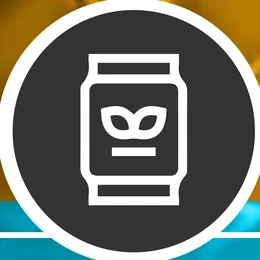
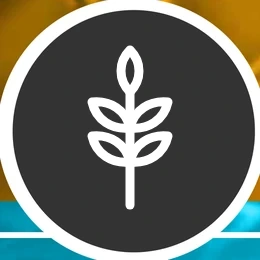
feat(catalogo): buscador por palabra, fotos con su propio nombre, sin nombres cortados (SEM-400)
- Buscador: palabra por palabra, ignora «alimento/comida/para», sinónimos
  (gallina→ponedora, rata→raticida, balanceado→rubros) y abreviaturas de la
  planilla; el rubro nombrado sale primero; con 0 resultados ofrece el rubro y
  preguntar por WhatsApp. «alimento gato» pasa de 0 a 128.
- Búsqueda y rubro en la URL (?q=…&sec=…) para mandar links ya filtrados.
- Accesorios y Venenos: cada foto con el nombre de su producto (antes la caja
  de Glacoxan decía «Bandeja sanitaria»); grupos alternados; productos con la
  misma foto en una sola tarjeta; cada foto prestada una sola vez.
- Nombres de la tabla medidos con el ancho real de la letra: 0 cortados a
  1080/390/360 px (antes 10/19).
- Íconos nuevos de Forrajes (espiga) y Snacks (maní): repetían Cereales y Venenos.
- content-visibility en las hojas: TBT 436→109 ms (local, mediana de 3).
- «de de engorde» en la descripción de Cerdo.

Changed region(s): [[0.3077, 0.1538, 0.7385, 0.8308]]

diff --git a/build.py b/build.py
@@ -11,7 +11,7 @@ consume la app precios.semilleroelmanantial.com.ar).
     python build.py            # baja el sheet y genera index.html
     python build.py --cache    # usa mayorista.csv local (sin red)
 """
-import csv, io, json, os, re, sys, unicodedata, urllib.parse, urllib.request
+import csv, hashlib, io, json, os, re, sys, unicodedata, urllib.parse, urllib.request
 from datetime import date
 
 BASE = os.path.dirname(os.path.abspath(__file__))
@@ -362,6 +362,35 @@ def encoger(texto, ancho, size, em, minimo):
     return round(max(minimo, min(size, necesario)), 1)
 
 
+# Ancho real de cada letra de Roboto Condensed 400, en em (medido con canvas sobre
+# la fuente que se sirve, assets/fonts). El promedio EM_ROBOTO se queda corto en
+# nombres largos: "Balanced cachorro raza med x 20 kg" se cortaba con "…" justo en
+# el peso (SEM-400). Con la tabla se detecta el corte y se achica o abrevia más.
+ANCHOS_ROBOTO = json.load(open(os.path.join(BASE, "assets", "fonts",
+                                            "anchos_roboto_condensed.json"), encoding="utf-8"))
+ANCHO_FILA = 418        # ancho útil (451 medido) menos 7 %: a 360-390 px el texto se
+                        # ensancha hasta 5,5 % por el redondeo de la letra chica
+FS_FILA_MIN = 16        # por debajo de esto se abrevia en vez de achicar
+
+
+def ancho_em(texto):
+    return sum(ANCHOS_ROBOTO.get(ch, 0.5) for ch in texto)
+
+
+def nombre_fila(desc):
+    """Nombre y tamaño de una fila de la tabla, sin que el texto se corte."""
+    nom = abreviar_prod(linda(desc))
+    fs = encoger(nom, 448, 32, EM_ROBOTO, 19)
+    if ancho_em(nom) * fs <= ANCHO_FILA:
+        return nom, fs            # entra: igual que siempre
+    corto = abreviar_prod(nom, limite=0)
+    for n in (nom, corto):
+        fs = min(32, ANCHO_FILA / ancho_em(n))
+        if fs >= FS_FILA_MIN:
+            return n, round(fs, 1)
+    return corto, FS_FILA_MIN
+
+
 # Abreviaturas que el catálogo original ya usaba, para que el texto entre.
 ABREVIA = [
     ("PRODUCCION PROPIA SEMILLERO", "PROD. PROPIA SEMILLERO"),
@@ -425,7 +454,10 @@ TOPE_TARJETAS = 5
 MAX_PILDORAS = 4      # el original nunca lista más de 4 variedades por foto
 # Secciones donde cada producto se muestra con SU foto en vez de agrupar la familia:
 # son surtidos donde la gracia es justamente ver cada variedad (Mati, 12/08).
-POR_PRODUCTO = {"CEREALES PARA DESAYUNO"}
+# Accesorios y Venenos también: ahí el grupo es una categoría ("PERROS Y GATOS",
+# "RATAS"), no una marca, y agrupar pegaba a la caja de Glacoxan los rótulos
+# "Bandeja sanitaria" y "Blister fino p/ gato" (SEM-400).
+POR_PRODUCTO = {"CEREALES PARA DESAYUNO", "ACCESORIOS", "VENENOS"}
 TOPE_ABSOLUTO = 9     # el máximo que llegó a poner la diseñadora en una página
 DIAM_CIRCULO = 0.86   # diámetro del círculo, en fracción del ancho de la columna
 # Secciones a granel: el original muestra el producto en círculo con aro de color
@@ -746,8 +778,7 @@ def pag_contenido(slug, color, pill, bloques, fotos, nro, ban_ext):
         y += H_GRUPO
         for k, it in enumerate(b["items"]):
             bg = FILA_A if k % 2 else FILA_B
-            nom = abreviar_prod(linda(it["desc"]))
-            fs = encoger(nom, 448, 32, EM_ROBOTO, 19)
+            nom, fs = nombre_fila(it["desc"])
             filas_html.append(
                 f'<div class="fila" style="top:{q(y)};background:{bg};'
                 f'font-size:{q(fs)}"><span>{esc(nom)}</span></div>')
@@ -1096,6 +1127,20 @@ SIN_DESTACAR = ("KEN-L RATION",)
 YA_RELLENO = {}
 
 
+_HUELLAS = {}
+
+
+def huella(local):
+    """md5 del archivo de la foto: detecta productos distintos con la misma imagen."""
+    if local not in _HUELLAS:
+        try:
+            with open(os.path.join(BASE, "assets", local), "rb") as fh:
+                _HUELLAS[local] = hashlib.md5(fh.read()).hexdigest()
+        except OSError:
+            _HUELLAS[local] = local
+    return _HUELLAS[local]
+
+
 def fotos_de(bloques, sec, mapa, prot, reserva=None):
     """Arma la columna de fotos: UNA por familia, con sus variedades al lado.
 
@@ -1161,21 +1206,34 @@ def fotos_de(bloques, sec, mapa, prot, reserva=None):
     # con que una sola familia tuviera fotos y Rosco se desarmaba en 5 fotos sueltas.
     if porgrupo and (sec in POR_PRODUCTO or (len(porgrupo) == 1 and len(bloques) == 1)):
         marca = porgrupo[0][0]
-        todos, vistos = [], set()
+        todos, vistos = [], {}
         for b in bloques:
-            for it in b["items"]:
+            for k_it, it in enumerate(b["items"]):
                 hit = mapa.get(f"{sec}|{it['cod']}|{it['desc']}")
-                if hit and hit["local"] not in vistos:
-                    vistos.add(hit["local"])
-                    todos.append({"img": hit["local"],
-                                  "nom": abreviar_prod(sin_marca(it["desc"], marca), 26),
-                                  "variantes": [abreviar_prod(sin_marca(it["desc"], marca), 26)],
-                                  "prot": proteina_de(sec, marca, it["desc"], prot),
-                                  "desc": it["desc"].upper(),
-                                  "propia": hit.get("slug", "") in MARCA_SLUG.get(marca, "")})
+                if not hit:
+                    continue
+                nom = abreviar_prod(sin_marca(it["desc"], marca), 26)
+                # Dos productos con la MISMA foto (Formix 100 g y 500 g son el mismo
+                # archivo): una sola tarjeta con los dos nombres, no la foto dos veces.
+                clave = huella(hit["local"])
+                if clave in vistos:
+                    previa = vistos[clave]
+                    if len(previa["variantes"]) < MAX_PILDORAS and nom not in previa["variantes"]:
+                        previa["variantes"].append(nom)
+                    continue
+                c = {"img": hit["local"], "nom": nom, "variantes": [nom],
+                     "prot": proteina_de(sec, marca, it["desc"], prot),
+                     "desc": it["desc"].upper(), "orden": k_it,
+                     "propia": hit.get("slug", "") in MARCA_SLUG.get(marca, "")}
+                vistos[clave] = c
+                todos.append(c)
         # las mezclas van primero: son producción nuestra y es lo que queremos mostrar
         destacar = DESTACADOS.get(sec, ())
+        # En las secciones por categoría se alternan los grupos (1ª foto de cada grupo,
+        # después la 2ª…): si no, Hormigas llenaba la columna y Ratas no tenía ninguna.
+        alterna = sec in ("ACCESORIOS", "VENENOS")
         todos.sort(key=lambda c: (0 if any(d in c["desc"] for d in destacar) else 1,
+                                  c["orden"] if alterna else 0,
                                   0 if c.get("propia") else 1))
         elegidas = todos
 
@@ -1198,6 +1256,10 @@ def fotos_de(bloques, sec, mapa, prot, reserva=None):
             if len(elegidas) >= tope_relleno:
                 break
             if c["img"] in usadas or (c.get("claves") or {c.get("clave")}) & ya_nombrados:
+                continue
+            # Cada foto prestada, una sola vez en todo el catálogo: en Accesorios las
+            # mismas 5 fotos llegaron a aparecer en 7 hojas (SEM-400).
+            if YA_RELLENO.get(c["img"], 0) >= 1:
                 continue
             elegidas.append(dict(c, prestada=True))
             usadas.add(c["img"])
@@ -1335,7 +1397,8 @@ def vista_buscar():
   <div class="grilla" id="res"></div>
   <div class="mas" id="mas" hidden><button id="btn-mas" type="button"></button></div>
   <div class="vacio" id="vacio" hidden>
-    <b>SIN RESULTADOS</b><span>Probá con menos filtros o buscá por marca.</span>
+    <b>SIN RESULTADOS</b><span>Probá con menos palabras, otro nombre o la marca.</span>
+    <div class="vacio-acc" id="vacio-acc"></div>
   </div>
 </main>"""
 
@@ -1370,6 +1433,10 @@ html{scroll-behavior:smooth}
 body{align-items:stretch;gap:0;padding:0;min-height:100vh}
 main.revista{display:flex;flex-direction:column;align-items:center;gap:2.6vw;padding:2.6vw 0 40px}
 .pag{scroll-margin-top:var(--barra,152px)}
+/* Las 48 hojas fuera de pantalla no se dibujan hasta acercarse: el celular se
+   trababa ~1 s al abrir (Lighthouse, TBT 0,7-1,1 s). El alto sale del aspect-ratio,
+   así que los saltos a cada sección caen en el mismo lugar (SEM-400). */
+.pag{content-visibility:auto;contain-intrinsic-size:auto min(1080px,100vw) auto calc(min(1080px,100vw)*16/9)}
 body[data-vista="buscar"] main.revista{display:none}
 body[data-vista="revista"] main.buscar{display:none}
 .empuje{flex:1 1 20px}
@@ -1455,6 +1522,14 @@ main.buscar{max-width:1180px;margin:0 auto;width:100%;padding:20px 16px 70px}
 .vacio b{display:block;font-family:'Bebas Neue',sans-serif;font-size:26px;letter-spacing:.1em;
   color:var(--verde);font-weight:400}
 .vacio span{font-size:15px;color:#8d7a68}
+.vacio-acc{display:flex;flex-wrap:wrap;justify-content:center;gap:10px;margin-top:18px}
+.vacio-acc:empty{display:none}
+.vacio-acc .chip.sug{background:var(--verde);color:#fff;border-color:var(--verde)}
+.sug-wa{display:inline-flex;align-items:center;gap:7px;background:#1FA855;color:#fff;text-decoration:none;
+  border-radius:999px;padding:10px 18px;font-size:15px;font-weight:700}
+.sug-wa svg{width:18px;height:18px;fill:currentColor}
+/* Foco visible para quien navega con teclado (el campo de búsqueda lo tenía apagado). */
+a:focus-visible,button:focus-visible,#q:focus-visible{outline:3px solid #EEC045;outline-offset:2px}
 
 /* ---------- pie y volver arriba ---------- */
 .pie{margin-top:auto;background:#14562A;color:#cfe0d5;padding:26px 16px 34px}
@@ -1533,8 +1608,63 @@ _JS = r"""
   }
 
   // Un solo campo normalizado por producto: se arma una vez y después cada tecla
-  // es un indexOf, no un normalize() por fila.
-  D.prod.forEach(function (p) { p.b = norm(p.n + ' ' + p.d + ' ' + p.m + ' ' + SEC[p.s].n); });
+  // es un indexOf, no un normalize() por fila. Lleva también las palabras con las
+  // que el cliente nombra el rubro ("balanceado", "alimento perro"), que no están
+  // en ningún nombre de producto.
+  var RUBRO = {
+    balanceados: 'balanceado animal', perros: 'balanceado perro', gatos: 'balanceado gato',
+    venenos: 'veneno insecticida', desayuno: 'cereal desayuno', snacks: 'snack golosina',
+    accesorios: 'accesorio'
+  };
+  D.prod.forEach(function (p) {
+    p.b = norm(p.n + ' ' + p.d + ' ' + p.m + ' ' + SEC[p.s].n + ' ' + (RUBRO[p.s] || ''));
+  });
+
+  // La búsqueda va palabra por palabra (tienen que estar todas, en cualquier
+  // orden): "veneno rata" encuentra "RATAS · Ratisada" aunque no estén pegadas.
+  // Las palabras de relleno no cuentan ("alimento para gato" = "gato"), y cada
+  // palabra acepta sus sinónimos y las abreviaturas de la planilla ("rza. gde").
+  // Antes se buscaba la frase entera y "alimento gato" daba 0 de 627 (SEM-400).
+  var RELLENO = ' alimento alimentos comida comidas para p/ de del la el los las y con x un una al ';
+  var SINON = {
+    gallina: ['ponedora', 'postura', 'gallin'], gallinas: ['ponedora', 'postura', 'gallin'],
+    pollo: ['pollo', 'iniciador', 'terminador', 'bebe', 'engorde', 'recria'],
+    pollos: ['pollo', 'iniciador', 'terminador', 'bebe', 'engorde', 'recria'],
+    pollito: ['preiniciador', 'iniciador', 'bebe'], pollitos: ['preiniciador', 'iniciador', 'bebe'],
+    parrillero: ['iniciador', 'terminador', 'engorde'], parrilleros: ['iniciador', 'terminador', 'engorde'],
+    chancho: ['cerdo', 'lechon'], chanchos: ['cerdo', 'lechon'], porcino: ['cerdo', 'lechon'],
+    equino: ['caballo'], equinos: ['caballo'],
+    rata: ['rata', 'raticida', 'laucha'], ratas: ['rata', 'raticida', 'laucha'],
+    raton: ['rata', 'raticida', 'laucha'], ratones: ['rata', 'raticida', 'laucha'],
+    hormiga: ['hormig'], hormigas: ['hormig'], cucaracha: ['cucarach', 'cucaxan'],
+    mosca: ['mosca', 'mosq'], moscas: ['mosca', 'mosq'],
+    pajaro: ['pajaro', 'aves', 'canario', 'cardenal'], pajaros: ['pajaro', 'aves', 'canario', 'cardenal'],
+    ave: ['aves', 'pajaro'], aves: ['aves', 'pajaro'],
+    perrito: ['perro', 'cachorro', 'cach'], perritos: ['perro', 'cachorro', 'cach'],
+    gatito: ['gatito', 'gato'], gatitos: ['gatito', 'gato'],
+    adulto: ['adulto', 'ad '], adultos: ['adulto', 'ad '],
+    cachorro: ['cachorro', 'cach'], cachorros: ['cachorro', 'cach'],
+    grande: ['grande', 'gde'], mediano: ['mediano', 'mediana', 'med'], mediana: ['mediana', 'mediano', 'med'],
+    pequeno: ['peque', 'peq', 'chic'], pequena: ['peque', 'peq', 'chic'], chico: ['chic', 'peq'],
+    raza: ['raza', 'rza'], pisado: ['pisado', 'molido', 'quebrado', 'partido'],
+    arena: ['arena', 'sanitari', 'piedras'], abono: ['abono', 'fertil'], fertilizante: ['fertil', 'abono']
+  };
+  function palabras(q) {
+    // "15 kg" y "500 gr" van juntas: separadas, "15" y "kg" casi siempre coinciden.
+    return (q.match(/\d+(?:[.,]\d+)?\s*(?:kg|gr|g|cc|lt|l|ml|u)\b|\S+/g) || [])
+      .filter(function (w) { return RELLENO.indexOf(' ' + w + ' ') < 0; });
+  }
+  function variantes(w) {
+    var v = (SINON[w] || []).concat([w]);
+    if (w.length > 4 && /es$/.test(w)) v.push(w.slice(0, -2));
+    if (w.length > 3 && /s$/.test(w)) v.push(w.slice(0, -1));
+    return v;
+  }
+  function coincide(p, grupos) {
+    return grupos.every(function (vs) {
+      return vs.some(function (v) { return p.b.indexOf(v) >= 0; });
+    });
+  }
 
   var PASO = 180;
   var st = { q: '', sec: 'todas', marca: 'todas', peso: 'todos', tope: PASO, verMarcas: false };
@@ -1578,8 +1708,12 @@ _JS = r"""
 
   function pintar() {
     var q = norm(st.q.trim());
+    var grupos = palabras(q).map(variantes);
     var porSec = st.sec === 'todas' ? D.prod : D.prod.filter(function (p) { return p.s === st.sec; });
-    var porTxt = q ? porSec.filter(function (p) { return p.b.indexOf(q) >= 0; }) : porSec;
+    // Si todas las palabras eran de relleno ("alimento"), se busca la frase tal cual.
+    var porTxt = !q ? porSec
+      : grupos.length ? porSec.filter(function (p) { return coincide(p, grupos); })
+      : porSec.filter(function (p) { return p.b.indexOf(q) >= 0; });
 
     // Las marcas y los pesos salen de lo que quedó filtrado, no de la lista entera:
     // si no, se ofrecen filtros que dan cero resultados.
@@ -1591,8 +1725,19 @@ _JS = r"""
     pesos.sort();
     var res = st.peso === 'todos' ? porMarca : porMarca.filter(function (p) { return p.w === st.peso; });
 
-    // Con foto primero: sólo 235 de los 623 tienen, y el que busca quiere ver.
-    res = res.slice().sort(function (a, b) { return (b.f ? 1 : 0) - (a.f ? 1 : 0); });
+    // Orden: si la búsqueda nombra un rubro ("alimento gato"), primero los de ese
+    // rubro y después lo demás que coincide (collares de "Perros y gatos"); dentro
+    // de cada parte, con foto primero: el que busca quiere ver.
+    var rubros = {};
+    if (grupos.length) {
+      D.sec.forEach(function (s) {
+        var b = norm(s.n + ' ' + (RUBRO[s.id] || ''));
+        if (grupos.some(function (vs) { return vs.some(function (v) { return b.indexOf(v) >= 0; }); })) rubros[s.id] = 1;
+      });
+    }
+    res = res.slice().sort(function (a, b) {
+      return ((rubros[b.s] || 0) - (rubros[a.s] || 0)) || ((b.f ? 1 : 0) - (a.f ? 1 : 0));
+    });
 
     poner($('#f-sec'), [chip('Todas', st.sec === 'todas', function () {
       st.sec = 'todas'; st.marca = 'todas'; st.peso = 'todos'; st.tope = PASO; pintar();
@@ -1625,6 +1770,8 @@ _JS = r"""
 
     $('#res').innerHTML = res.slice(0, st.tope).map(tarjeta).join('');
     $('#vacio').hidden = res.length > 0;
+    if (res.length) $('#vacio-acc').textContent = ''; else vacio(q, grupos);
+    guardarUrl();
     var faltan = res.length - st.tope;
     $('#mas').hidden = faltan <= 0;
     if (faltan > 0) {
@@ -1633,6 +1780,44 @@ _JS = r"""
     $('#conteo').textContent = res.length === D.prod.length
       ? D.prod.length + ' PRODUCTOS'
       : res.length + ' DE ' + D.prod.length;
+  }
+
+  // Sin resultados: se ofrece el rubro que nombró el cliente (si nombró alguno) y
+  // preguntar por WhatsApp con lo que escribió, en vez de un callejón sin salida.
+  function vacio(q, grupos) {
+    var secs = D.sec.filter(function (s) {
+      var b = norm(s.n + ' ' + (RUBRO[s.id] || ''));
+      return grupos.some(function (vs) { return vs.some(function (v) { return b.indexOf(v) >= 0; }); });
+    });
+    var cont = $('#vacio-acc');
+    cont.textContent = '';
+    secs.slice(0, 3).forEach(function (s) {
+      cont.appendChild(chip('Ver ' + s.n, false, function () {
+        st.q = ''; $('#q').value = ''; st.sec = s.id; st.marca = 'todas'; st.peso = 'todos';
+        st.tope = PASO; pintar();
+      }, 'sug'));
+    });
+    if (q) {
+      var a = document.createElement('a');
+      a.className = 'sug-wa'; a.target = '_blank'; a.rel = 'noopener';
+      a.href = wa('Hola! Busco: ' + st.q.trim() + FIRMA);
+      a.innerHTML = WA_SVG + 'Preguntanos por WhatsApp';
+      cont.appendChild(a);
+    }
+  }
+
+  // La búsqueda y el rubro quedan en la dirección (?q=gandum&sec=perros): así se
+  // puede mandar un link que abre el buscador ya filtrado. Se respetan los demás
+  // parámetros (utm_source de TikTok).
+  function guardarUrl() {
+    if (document.body.dataset.vista !== 'buscar') return;
+    try {
+      var u = new URL(location.href);
+      if (st.q.trim()) u.searchParams.set('q', st.q.trim()); else u.searchParams.delete('q');
+      if (st.sec !== 'todas') u.searchParams.set('sec', st.sec); else u.searchParams.delete('sec');
+      u.hash = '#buscar';
+      if (u.href !== location.href) history.replaceState(null, '', u.href);
+    } catch (e) {}
   }
 
   function vista(v) {
@@ -1681,6 +1866,12 @@ _JS = r"""
     arriba.hidden = window.scrollY < 600;
   }, { passive: true });
 
+  try {
+    var pu = new URLSearchParams(location.search);
+    if (pu.get('q')) { st.q = pu.get('q'); $('#q').value = st.q; }
+    if (pu.get('sec') && SEC[pu.get('sec')]) st.sec = pu.get('sec');
+    if (pu.get('q') || pu.get('sec')) location.hash = '#buscar';
+  } catch (e) {}
   if (location.hash === '#buscar') vista('buscar');
   pintar();
 })();
